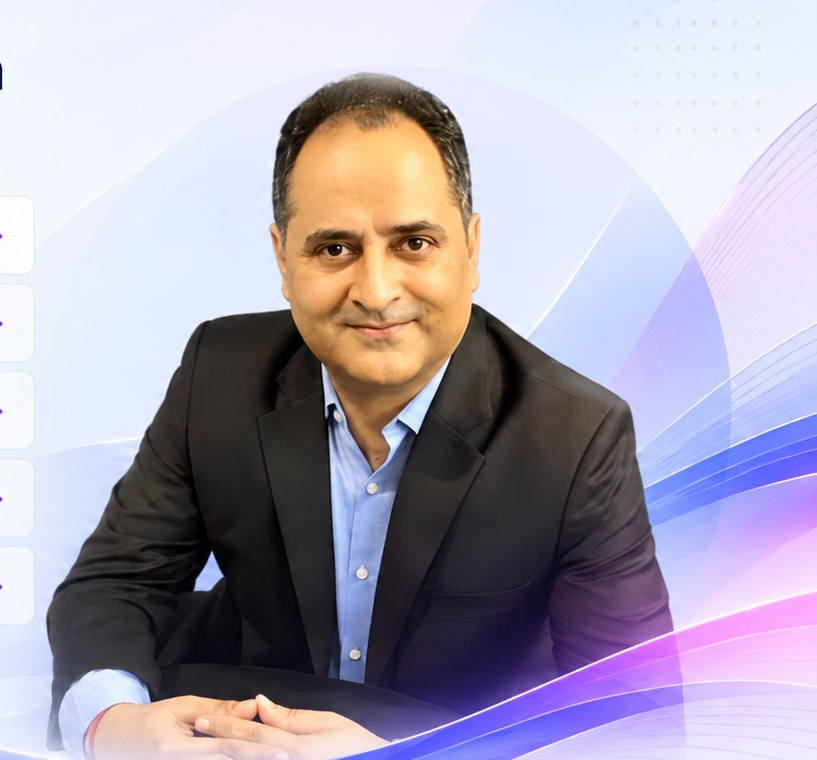
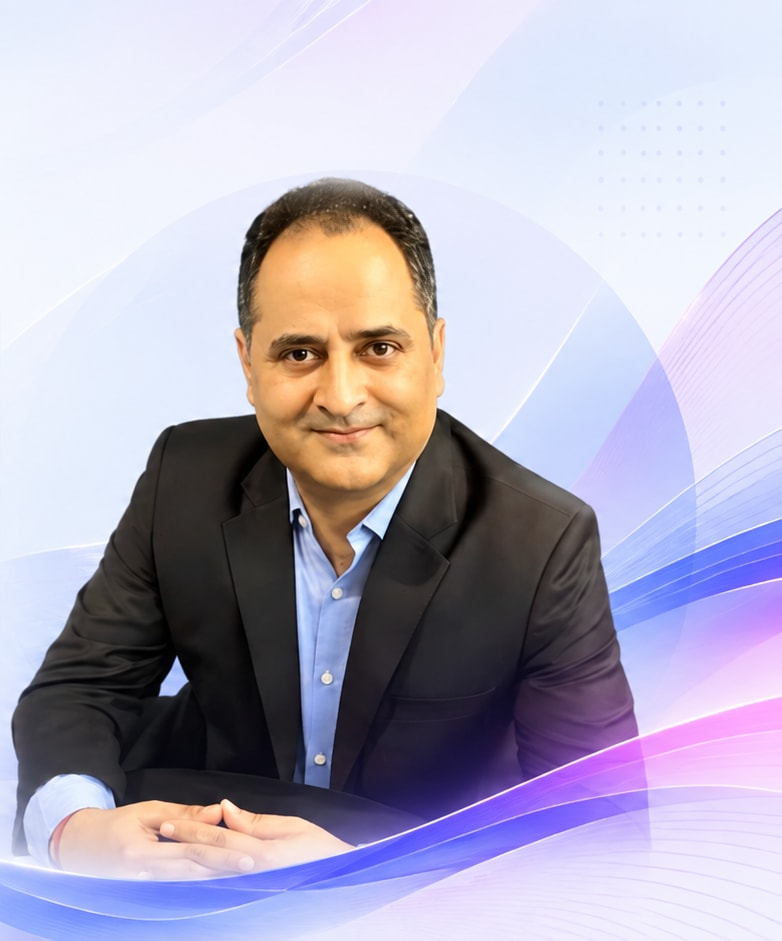
Match homepage expertise reference

diff --git a/app/globals.css b/app/globals.css
@@ -161,3 +161,23 @@
 @media(min-width:1673px){.author-section{padding-left:calc((100vw - 1672px)/2 + 132px);padding-right:calc((100vw - 1672px)/2 + 132px)}}
 @media(max-width:1200px) and (min-width:769px){.author-section{height:auto;min-height:900px;padding:42px 4% 105px}.author-section .featured-strip{margin-left:0}.author-section .author-grid{grid-template-columns:330px 1fr;margin-left:0;margin-right:0;gap:28px}.author-section .experience-card{width:330px}.author-section .author-grid h2{font-size:43px}.author-section .tagline{white-space:normal}.author-section .author-grid p:not(.eyebrow):not(.tagline){font-size:14px}.author-section .mission-bar{padding-right:260px}.author-section .mini-card{padding-left:82px}.author-section .mini-card::before{left:83px}.author-section .mini-card>span{left:22px}.author-section .mini-card p{font-size:12px}}
 @media(max-width:768px){.author-section{height:auto;min-height:0;padding:46px 22px 120px}.author-section::before,.author-section::after{display:none}.author-section .featured-strip{width:100%;height:auto;min-height:64px;margin:0;padding:14px 18px;gap:14px;flex-wrap:wrap}.author-section .featured-strip svg:last-child{margin-left:0}.author-section .author-grid{grid-template-columns:1fr;margin:28px 0 0;gap:28px}.author-section .experience-card{width:100%;height:330px}.author-section .author-grid h2{font-size:42px}.author-section .tagline{white-space:normal}.author-section .author-grid p:not(.eyebrow):not(.tagline){font-size:16px}.author-section .mission-bar{height:auto;min-height:170px;padding:28px 20px;align-items:flex-start}.author-section .mission-bar::after{opacity:.16;width:100%;height:100%}.author-section .mission-bar>div{padding-left:20px}.author-section .mini-grid{height:auto;grid-template-columns:1fr}.author-section .mini-card{height:123px}.author-section .author-wave-art{height:150px;background-size:auto 150px}.author-section .author-cta{width:100%;height:60px}.author-section .author-bottom-nav{width:100%;margin-top:32px}.author-section .author-bottom-nav p{white-space:normal;line-height:1.9}}
+
+/* Homepage expertise section reconstructed to the supplied 1672 x 941 reference. */
+.expertise-section{position:relative;display:block;width:100%;max-width:none;height:941px;min-height:941px;padding:70px 0 0 6.3%;overflow:hidden;background:radial-gradient(circle at 32% 34%,#fff 0,#f7fbff 58%,#edf5ff 100%)}
+.expertise-section::after{content:"";position:absolute;z-index:0;left:0;bottom:0;width:53.2%;height:106px;background:url('/art/home-expertise-bottom-left.png') left bottom/100% 106px no-repeat;pointer-events:none}
+.expertise-section .expertise-copy{position:relative;z-index:2;width:46.9vw}
+.expertise-section .eyebrow{margin:0;font-size:14px;line-height:18px;font-weight:500;letter-spacing:.36em;color:#18305f}
+.expertise-section .eyebrow::after{content:"";display:block;width:78px;height:3px;margin-top:16px;background:linear-gradient(90deg,#087ef5,#7136fb,#ed13d6)}
+.expertise-section .display{margin:36px 0 34px;font-size:61px;line-height:1.02;font-weight:400;letter-spacing:-.035em;color:#071b4c}
+.expertise-section .expertise-list{width:100%;display:grid;gap:9px;margin:0 0 30px}
+.expertise-section .expertise-list>div{position:relative;width:100%;height:78px;min-height:78px;padding:0 24px 0 10px;grid-template-columns:96px 1fr 40px;border-color:#d4e0ef;border-radius:11px;background:rgba(255,255,255,.84)}
+.expertise-section .expertise-list>div>span{width:67px;height:64px;border-radius:14px;background:linear-gradient(145deg,#eef5ff,#f5efff);color:#6941f6}
+.expertise-section .expertise-list>div>span svg{width:42px;height:42px;stroke-width:2.1}
+.expertise-section .expertise-list b{height:36px;padding-left:30px;border-left:1px solid #8099d0;display:flex;align-items:center;font-size:20px;line-height:1.2;font-weight:500;letter-spacing:.01em;white-space:nowrap}
+.expertise-section .expertise-list>div>svg{width:28px;height:28px;color:#8135f8;stroke-width:1.8}
+.expertise-section .button{width:329px;height:74px;min-height:74px;margin:0;border-radius:8px;padding:0 47px;font-size:18px;font-weight:500;letter-spacing:.02em;box-shadow:0 14px 30px rgba(78,60,225,.13)}
+.expertise-section .button svg{width:24px;height:24px}
+.expertise-section .image-panel{position:absolute;z-index:1;right:0;top:0;width:46.8%;height:941px}
+.expertise-section .image-panel img{object-fit:fill}
+@media(max-width:1200px) and (min-width:769px){.expertise-section{height:820px;min-height:820px;padding:58px 0 0 4.5%}.expertise-section .expertise-copy{width:50vw}.expertise-section .display{font-size:46px}.expertise-section .expertise-list b{font-size:15px}.expertise-section .image-panel{width:45%;height:820px}.expertise-section::after{width:55%;height:92px;background-size:100% 92px}.expertise-section .button{width:290px;height:66px;min-height:66px;font-size:16px}}
+@media(max-width:768px){.expertise-section{height:auto;min-height:0;padding:52px 22px 0;display:flex;flex-direction:column;background:radial-gradient(circle at 30% 18%,#fff 0,#f5f9ff 72%,#edf4ff 100%)}.expertise-section::after{display:none}.expertise-section .expertise-copy{width:100%;order:1}.expertise-section .eyebrow{font-size:12px}.expertise-section .display{margin:30px 0;font-size:39px;line-height:1.08}.expertise-section .expertise-list>div{height:74px;min-height:74px;grid-template-columns:72px 1fr 28px;padding:0 12px 0 8px}.expertise-section .expertise-list>div>span{width:58px;height:56px}.expertise-section .expertise-list>div>span svg{width:34px;height:34px}.expertise-section .expertise-list b{height:auto;min-height:34px;padding-left:18px;font-size:14px;white-space:normal}.expertise-section .expertise-list>div>svg{width:22px;height:22px}.expertise-section .button{width:100%;height:64px;min-height:64px;padding:0 30px;font-size:16px}.expertise-section .image-panel{position:relative;order:2;right:auto;top:auto;width:calc(100% + 44px);height:auto;aspect-ratio:782/941;margin:34px 0 0 -22px}.expertise-section .image-panel img{object-fit:cover}}

diff --git a/app/page.tsx b/app/page.tsx
@@ -45,12 +45,12 @@ export default function Home() {
         <div className="author-bottom-nav" id="author-bottom"><p>IDEAS <i/> INSIGHTS <i/> EXECUTION <i/> LASTING VALUE</p><Link href="#expertise" aria-label="Continue to areas of expertise"><ChevronDown/></Link></div>
       </section>
 
-      <section className="section split-section" id="expertise">
-        <div><p className="eyebrow">AREAS OF EXPERTISE</p><h2 className="display">From Strategy to Execution<br/><span>Across the Enterprise</span></h2>
+      <section className="section split-section expertise-section" id="expertise">
+        <div className="expertise-copy"><p className="eyebrow">AREAS OF EXPERTISE</p><h2 className="display">From Strategy to Execution<br/><span>Across the Enterprise</span></h2>
           <div className="expertise-list">{expertise.map((x,i)=><div key={x}><span>{[Cog,Layers3,BarChart3,Target,Users].map((I,j)=>j===i?<I key={j}/>:null)}</span><b>{x}</b><ArrowRight/></div>)}</div>
           <Link className="button" href="/about">See Full Profile <ArrowRight/></Link>
         </div>
-        <div className="image-panel"><Image src="/art/home-expertise.jpg" alt="Rajesh Koul" fill sizes="(max-width: 800px) 100vw, 50vw"/></div>
+        <div className="image-panel"><Image src="/art/home-expertise.png" alt="Rajesh Koul" fill sizes="(max-width: 800px) 100vw, 47vw"/></div>
       </section>
 
       <section className="section split-section book-section" id="featured-book">
